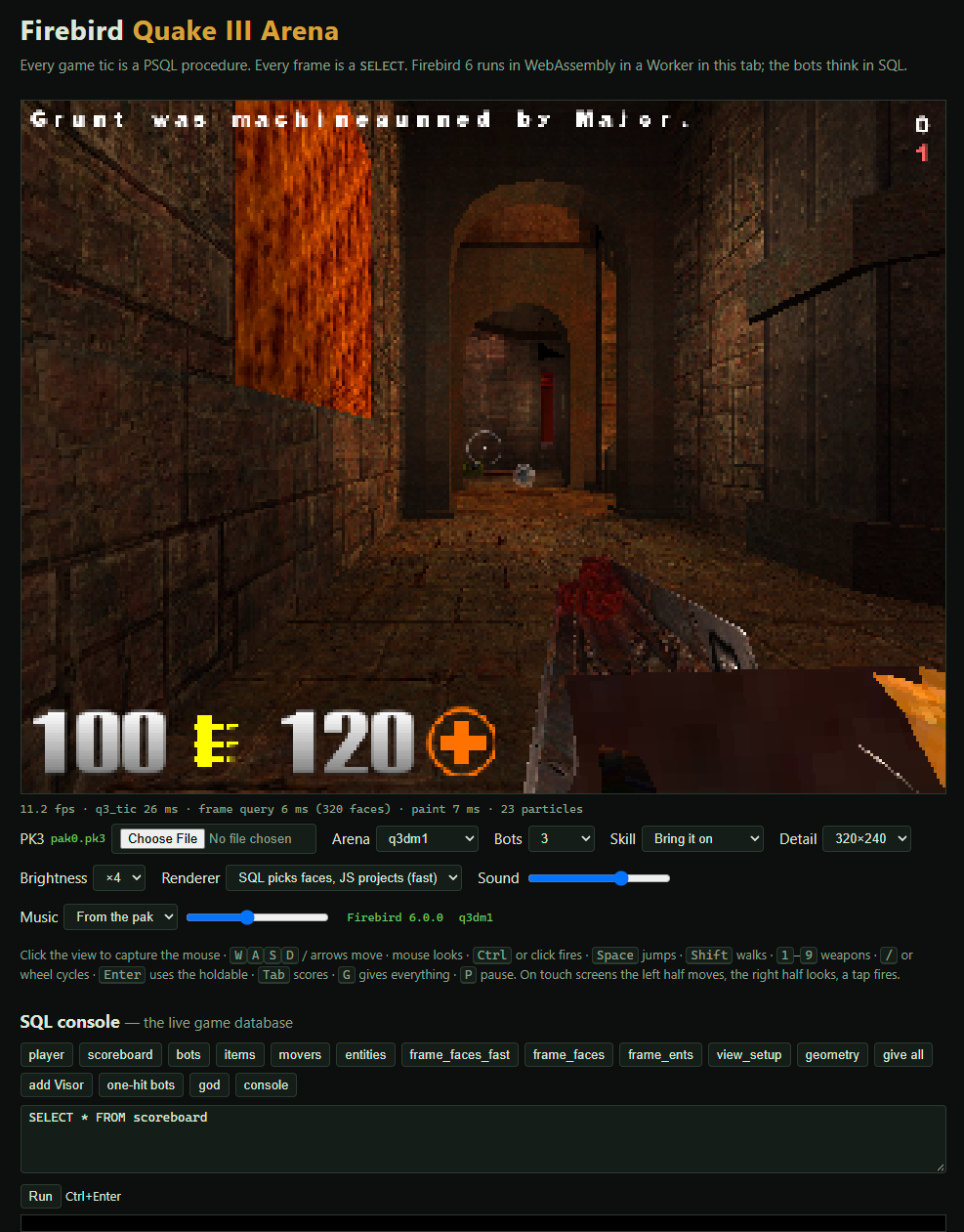
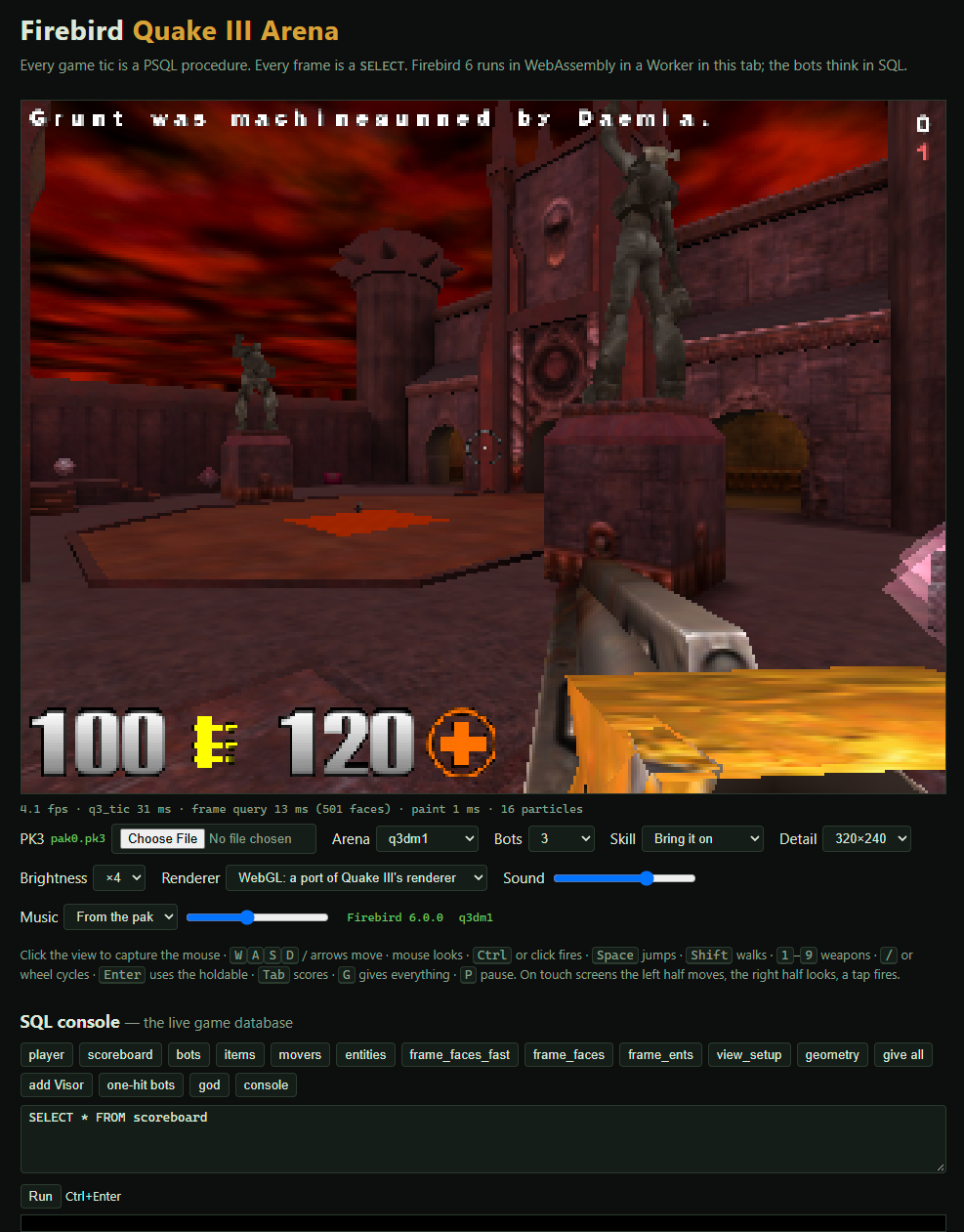
README: the live-site screenshot with the WebGL renderer

diff --git a/README.md b/README.md
@@ -26,7 +26,7 @@ keyboard/mouse → SELECT * FROM q3_tic(...)        game logic: 20 Hz, PSQL
 
 **Play it at [mariuz.github.io/firebird-quake3](https://mariuz.github.io/firebird-quake3/)** — the page downloads the demo pak, starts Firebird 6 in a Worker and drops you into the Arena Gate with three bots.
 
-![The live site: the Arena Gate at 320×240, the status bar, the controls and the SQL console](docs/live-site.png)
+![The live site: the Arena Gate drawn by the WebGL renderer at 320×240, the status bar, the controls and the SQL console](docs/live-site.png)
 
 ## Running it
 
